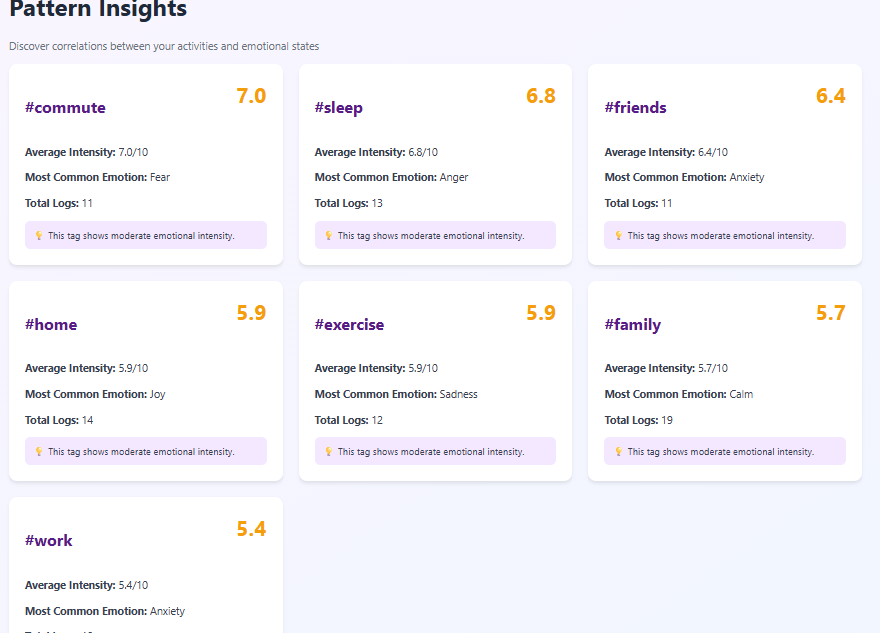
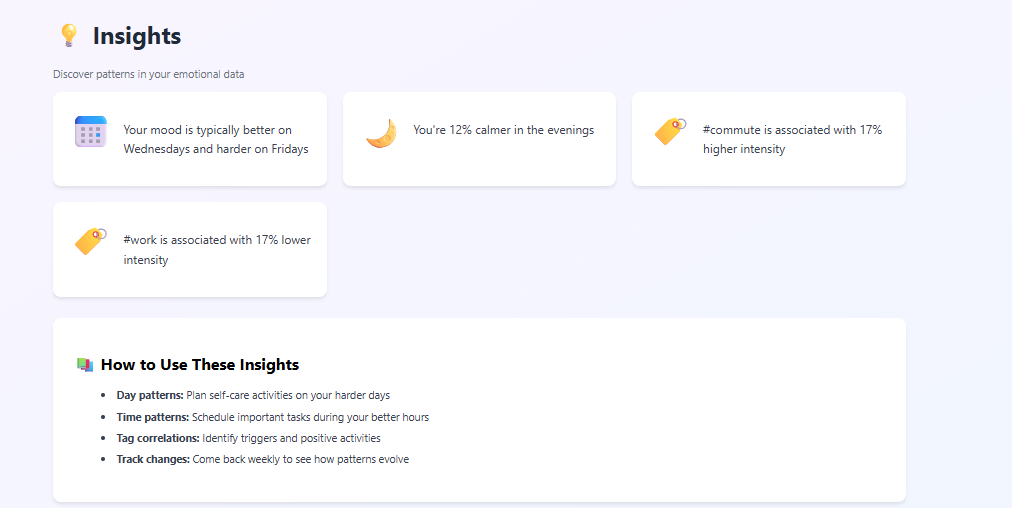
updated

diff --git a/core/templates/base.html b/core/templates/base.html
@@ -23,8 +23,9 @@
                     <a href="{% url 'dashboard' %}" class="nav-link" style="font-weight: 600;">🏠 Dashboard</a>
                     <a href="{% url 'log_mood' %}" class="nav-link-primary">+ Log Mood</a>
                     <a href="{% url 'heatmap' %}" class="nav-link">Heatmap</a>
-                    <a href="{% url 'insights_dashboard' %}" class="nav-link">AI Insights</a>
+                    <a href="{% url 'insights_dashboard' %}" class="nav-link">Insights</a>
                     <a href="{% url 'interventions_list' %}" class="nav-link">Interventions</a>
+                    <!-- <a href="{% url 'correlations' %}" class="nav-link">Correlations</a> -->
                     <a href="{% url 'logout' %}" class="nav-link" style="color: #ef4444;">Logout ({{ user.username }})</a>
                 {% else %}
                     <a href="{% url 'interventions_list' %}" class="nav-link">Interventions</a>

diff --git a/core/templates/insights_dashboard.html b/core/templates/insights_dashboard.html
@@ -2,7 +2,7 @@
 
 {% block content %}
 <div>
-    <h1 class="page-title">💡 AI-Powered Insights</h1>
+    <h1 class="page-title">💡 Insights</h1>
     <p class="page-subtitle">Discover patterns in your emotional data</p>
 
     {% if insights %}
